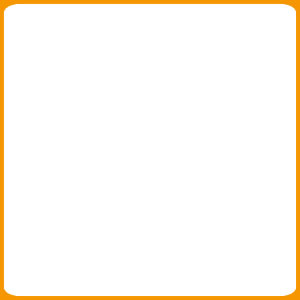
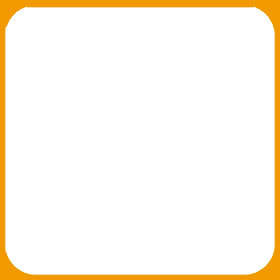
Add files via upload

Changed region(s): [[0.0, 0.0, 1.0, 1.0]]

diff --git a/黏土人000.html b/黏土人000.html
@@ -24,8 +24,7 @@ flex-wrap: wrap;
 	font-size: 50px;
 	font-family: "Microsoft JhengHei UI";
 	text-decoration: blink;	
-	height: 300px;
-	width: 290px;
+	height: 280px;	width: 270px;
 	padding-left: 10px;
 background-image: url(CG/000/N.jpg);
 	padding-left: 10px;
@@ -33,152 +32,133 @@ background-image: url(CG/000/N.jpg);
 #a200 {	float: left;
 font-size: 50px;
 	font-family: "Microsoft JhengHei UI";
-	text-decoration: blink;	height: 300px;
-	width: 290px;
+	text-decoration: blink;	height: 280px;	width: 270px;
 	padding-left: 10px;
 ;background-image: url(CG/000/N.jpg);
 }
 #a300 {	float: left;
 font-size: 50px;
 	font-family: "Microsoft JhengHei UI";
-	text-decoration: blink;	height: 300px;
-	width: 290px;
+	text-decoration: blink;	height: 280px;	width: 270px;
 	padding-left: 10px;
 ;background-image: url(CG/000/N.jpg);
 }
 #a400 {	float: left;
 font-size: 50px;
 	font-family: "Microsoft JhengHei UI";
-	text-decoration: blink;	height: 300px;
-	width: 290px;
+	text-decoration: blink;	height: 280px;	width: 270px;
 	padding-left: 10px;
 ;background-image: url(CG/000/N.jpg);
 }
 #a500 {	float: left;
 font-size: 50px;
 	font-family: "Microsoft JhengHei UI";
-	text-decoration: blink;	height: 300px;
-	width: 290px;
+	text-decoration: blink;	height: 280px;	width: 270px;
 	padding-left: 10px;
 ;background-image: url(CG/000/N.jpg);
 }
 #a600 {	float: left;
 font-size: 50px;
 	font-family: "Microsoft JhengHei UI";
-	text-decoration: blink;	height: 300px;
-	width: 290px;
+	text-decoration: blink;	height: 280px;	width: 270px;
 	padding-left: 10px;
 ;background-image: url(CG/000/N.jpg);
 }
 #a700 {	float: left;
 font-size: 50px;
 	font-family: "Microsoft JhengHei UI";
-	text-decoration: blink;	height: 300px;
-	width: 290px;
+	text-decoration: blink;	height: 280px;	width: 270px;
 	padding-left: 10px;
 ;background-image: url(CG/000/N.jpg);
 }
 #a800 {	float: left;
 font-size: 50px;
 	font-family: "Microsoft JhengHei UI";
-	text-decoration: blink;	height: 300px;
-	width: 290px;
+	text-decoration: blink;	height: 280px;	width: 270px;
 	padding-left: 10px;
 ;background-image: url(CG/000/N.jpg);
 }
 #a900 {	float: left;
 font-size: 50px;
 	font-family: "Microsoft JhengHei UI";
-	text-decoration: blink;	height: 300px;
-	width: 290px;
+	text-decoration: blink;	height: 280px;	width: 270px;
 	padding-left: 10px;
 ;background-image: url(CG/000/N.jpg);
 }
 #a1000 {	float: left;
 font-size: 50px;
 	font-family: "Microsoft JhengHei UI";
-	text-decoration: blink;	height: 300px;
-	width: 290px;
+	text-decoration: blink;	height: 280px;	width: 270px;
 	padding-left: 10px;
 ;background-image: url(CG/000/N.jpg);
 }
 #a1100 {	float: left;
 font-size: 50px;
 	font-family: "Microsoft JhengHei UI";
-	text-decoration: blink;	height: 300px;
-	width: 290px;
+	text-decoration: blink;	height: 280px;	width: 270px;
 	padding-left: 10px;
 ;background-image: url(CG/000/N.jpg);
 }
 #a1200 {	float: left;
 font-size: 50px;
 	font-family: "Microsoft JhengHei UI";
-	text-decoration: blink;	height: 300px;
-	width: 290px;
+	text-decoration: blink;	height: 280px;	width: 270px;
 	padding-left: 10px;
 ;background-image: url(CG/000/N.jpg);
 }
 #a1300 {	float: left;
 font-size: 50px;
 	font-family: "Microsoft JhengHei UI";
-	text-decoration: blink;	height: 300px;
-	width: 290px;
+	text-decoration: blink;	height: 280px;	width: 270px;
 	padding-left: 10px;
 ;background-image: url(CG/000/N.jpg);
 }
 #a1400 {	float: left;
 font-size: 50px;
 	font-family: "Microsoft JhengHei UI";
-	text-decoration: blink;	height: 300px;
-	width: 290px;
+	text-decoration: blink;	height: 280px;	width: 270px;
 	padding-left: 10px;
 ;background-image: url(CG/000/N.jpg);
 }
 #a1500 {	float: left;
 font-size: 50px;
 	font-family: "Microsoft JhengHei UI";
-	text-decoration: blink;	height: 300px;
-	width: 290px;
+	text-decoration: blink;	height: 280px;	width: 270px;
 	padding-left: 10px;
 ;background-image: url(CG/000/N.jpg);
 }
 #a1600 {	float: left;
 font-size: 50px;
 	font-family: "Microsoft JhengHei UI";
-	text-decoration: blink;	height: 300px;
-	width: 290px;
+	text-decoration: blink;	height: 280px;	width: 270px;
 	padding-left: 10px;
 ;background-image: url(CG/000/N.jpg);
 }
 #a1700 {	float: left;
 font-size: 50px;
 	font-family: "Microsoft JhengHei UI";
-	text-decoration: blink;	height: 300px;
-	width: 290px;
+	text-decoration: blink;	height: 280px;	width: 270px;
 	padding-left: 10px;
 ;background-image: url(CG/000/N.jpg);
 }
 #a1800 {	float: left;
 font-size: 50px;
 	font-family: "Microsoft JhengHei UI";
-	text-decoration: blink;	height: 300px;
-	width: 290px;
+	text-decoration: blink;	height: 280px;	width: 270px;
 	padding-left: 10px;
 ;background-image: url(CG/000/N.jpg);
 }
 #a1900 {	float: left;
 font-size: 50px;
 	font-family: "Microsoft JhengHei UI";
-	text-decoration: blink;	height: 300px;
-	width: 290px;
+	text-decoration: blink;	height: 280px;	width: 270px;
 	padding-left: 10px;
 ;background-image: url(CG/000/N.jpg);
 }
 #a2000 {	float: left;
 font-size: 50px;
 	font-family: "Microsoft JhengHei UI";
-	text-decoration: blink;	height: 300px;
-	width: 290px;
+	text-decoration: blink;	height: 280px;	width: 270px;
 	padding-left: 10px;
 ;
 	background-image: url(CG/000/N.jpg);
@@ -186,87 +166,75 @@ font-size: 50px;
 #a2100 {	float: left;
 font-size: 50px;
 	font-family: "Microsoft JhengHei UI";
-	text-decoration: blink;	height: 300px;
-	width: 290px;
+	text-decoration: blink;	height: 280px;	width: 270px;
 	padding-left: 10px;
 ;background-image: url(CG/000/N.jpg);
 }
 #a2200 {	float: left;
 font-size: 50px;
 	font-family: "Microsoft JhengHei UI";
-	text-decoration: blink;	height: 300px;
-	width: 290px;
+	text-decoration: blink;	height: 280px;	width: 270px;
 	padding-left: 10px;
 ;background-image: url(CG/000/N.jpg);
 }
 #a2300 {	float: left;
 font-size: 50px;
 	font-family: "Microsoft JhengHei UI";
-	text-decoration: blink;	height: 300px;
-	width: 290px;
+	text-decoration: blink;	height: 280px;	width: 270px;
 	padding-left: 10px;
 ;background-image: url(CG/000/N.jpg);
 }
 #a2400 {	float: left;
 font-size: 50px;
 	font-family: "Microsoft JhengHei UI";
-	text-decoration: blink;	height: 300px;
-	width: 290px;
+	text-decoration: blink;	height: 280px;	width: 270px;
 	padding-left: 10px;
 ;background-image: url(CG/000/N.jpg);
 }
 #a2500 {	float: left;
 font-size: 50px;
 	font-family: "Microsoft JhengHei UI";
-	text-decoration: blink;	height: 300px;
-	width: 290px;
+	text-decoration: blink;	height: 280px;	width: 270px;
 	padding-left: 10px;
 ;background-image: url(CG/000/N.jpg);
 }
 #a2600 {	float: left;
 font-size: 50px;
 	font-family: "Microsoft JhengHei UI";
-	text-decoration: blink;	height: 300px;
-	width: 290px;
+	text-decoration: blink;	height: 280px;	width: 270px;
 	padding-left: 10px;
 ;background-image: url(CG/000/N.jpg);
 }
 #a2700 {	float: left;
 font-size: 50px;
 	font-family: "Microsoft JhengHei UI";
-	text-decoration: blink;	height: 300px;
-	width: 290px;
+	text-decoration: blink;	height: 280px;	width: 270px;
 	padding-left: 10px;
 ;background-image: url(CG/000/N.jpg);
 }
 #a2800 {	float: left;
 font-size: 50px;
 	font-family: "Microsoft JhengHei UI";
-	text-decoration: blink;	height: 300px;
-	width: 290px;
+	text-decoration: blink;	height: 280px;	width: 270px;
 	padding-left: 10px;
 ;background-image: url(CG/000/N.jpg);
 }
 #a2900 {	float: left;
 font-size: 50px;
 	font-family: "Microsoft JhengHei UI";
-	text-decoration: blink;	height: 300px;
-	width: 290px;
+	text-decoration: blink;	height: 280px;	width: 270px;
 	padding-left: 10px;
 ;background-image: url(CG/000/N.jpg);
 }
 #a3000 {	float: left;
 font-size: 50px;
 	font-family: "Microsoft JhengHei UI";
-	text-decoration: blink;	height: 300px;
-	width: 290px;
+	text-decoration: blink;	height: 280px;	width: 270px;
 	padding-left: 10px;
 ;background-image: url(CG/000/N.jpg);
 }
 
 </style>
-<!-- 手機 -->
-<link href="CG/ST0.css" rel="stylesheet" type="text/css" media="only screen and (max-width:1261px)" />
 </head>
 
 <body>
